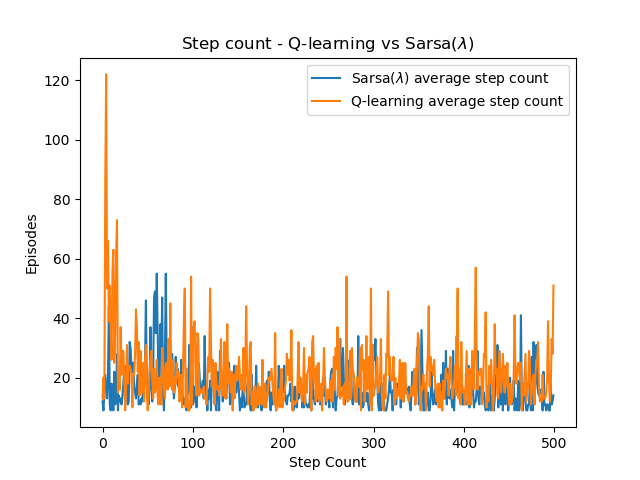
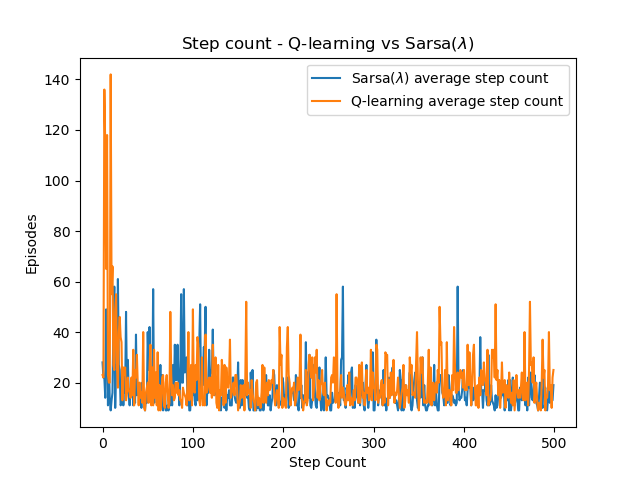
testing final.. fin

diff --git a/pa4/Sahil_Gandhi_PA4.py b/pa4/Sahil_Gandhi_PA4.py
@@ -494,5 +494,5 @@ if __name__=='__main__':
     # if cmd_args.alg == 's':
         # eval_n_experiments(cmd_args, 'lambda', [0, .25, .5, .75, 1])
 
-    eval_n_experiments_v2(cmd_args)
-    # eval_n_experiments_v3(cmd_args)
+    # eval_n_experiments_v2(cmd_args)
+    eval_n_experiments_v3(cmd_args)
